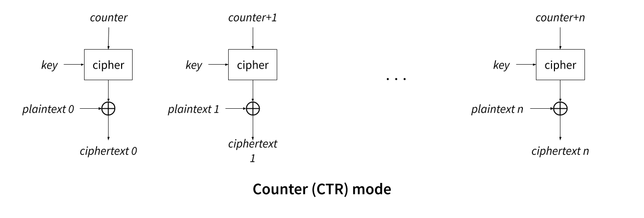
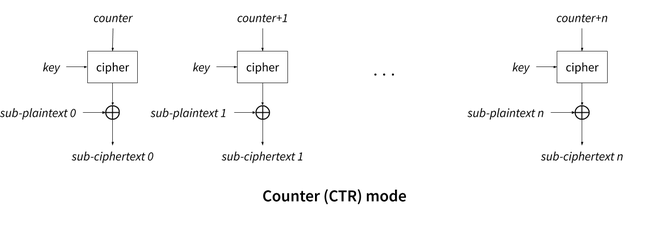
Fix bitslicing post

diff --git a/_posts/2020-01-14-bitslicing.md b/_posts/2020-01-14-bitslicing.md
@@ -59,8 +59,10 @@ doing a `xor` between the first and third register above computes 4
 The general idea of bitslicing is thus to transpose _m_ _n_-bit data
 into _n_ _m_-bit registers (or variables). Then, standard _m_-bit
 bitwise operations of the CPU can be used and each acts as _m_
-parallel operation, allowing a cipher to effectively run _m_ times in
-parallel.
+parallel operation. Therefore, if a cipher can be expressed as a
+combination of bitwise operations, it can be ran _m_ times in parallel
+using bitslicing. A bitsliced program can thus be seen as a parallel
+circuit implemented in software.
 
 
 In the following, we present various aspects of bitslicing: how to
@@ -82,13 +84,13 @@ Scaling:
 -->
 ### Scaling
 
-Modern high-end CPUs come with vector extensions, also called _SIMD_
-for Single Instruction Multiple Data. The idea of SIMD is to do the
-same operation on multiple data with a single instruction, thus
-increasing throughput using data parallelism rather than
-concurrency. SIMD instructions are made available to C developpers
-thanks to functions called _intrinsics_. For instance, the C
-intrinsics `_mm_add_pi8` generates a `paddb` assembly instruction,
+Modern high-end CPUs come with vector instruction sets, also called
+_SIMD_ (Single Instruction Multiple Data) extensions. The idea of SIMD
+is to do the same operation on multiple data with a single
+instruction, thus increasing throughput using data parallelism rather
+than concurrency. SIMD instructions are made available to C
+developpers thanks to functions called _intrinsics_. For instance, the
+C intrinsics `_mm_add_pi8` generates a `paddb` assembly instruction,
 which takes 2 64-bit MMX registers, and does 8 8-bit additions on
 those registers:
 
@@ -102,12 +104,13 @@ AltiVec on PowerPC, 128-bit Neon on ARM, 64-bit MMX, 128-bit SSE,
 256-bit AVX and 512-bit AVX-512 on Intel. While the initial goal of
 SIMD is to speed up standard computations by providing parallel
 arithmetic operations, we can use the bitwise operations and large
-registers they provide to speed up bitslicing. Executing a bitslice
-program on 512-bit registers will compute the same circuit on 512
-independent data in parallel, thus readucing 8 times the cost per data
-compared to 64-bit registers. Parallelizing direct (_i.e._ not
-bitsliced) code in the same fashion using SIMD instructions is not
-always possible: a lookup table cannot be parallelized for instance.
+registers they provide to speed up bitsliced
+implementations. Executing a bitsliced program on 512-bit registers
+will compute the same circuit on 512 independent data in parallel,
+thus reducing 8 times the cost per data compared to 64-bit
+registers. Parallelizing direct (_i.e._ not bitsliced) code in the
+same fashion using SIMD instructions is not always possible: a lookup
+table cannot be parallelized for instance.
 
 The overall time needed to execute the circuit, and thus the latency,
 on the other hand remains constant no matter the registers used:
@@ -117,10 +120,8 @@ amount of time.
 
 Finally, to make full use of SIMD extensions, hundreds of inputs must
 be available to be encrypted in parallel. For instance, on AES, which
-encrypts a 128-bit plaintext, in order to fill up 512-bit AVX-512
-registers, 8 KB of data are required. And even if such amount of data
-are available, bitslicing might not always work because some modes of
-operations cannot be used, as shown below.
+encrypts a 128-bit plaintext, in order to fill 512-bit AVX-512
+registers, 8 KB of data are required. 
 
 
 <!--
@@ -136,23 +137,24 @@ Mode of operation
 
 ### Modes of operation
 
-A blockcipher can only encrypts a fixed amount of data, called a
-block, of typically somewhere between 64 and 128 bits (for instance,
-64 for DES, 80 for Rectangle, 128 for AES). When the plaintext is
-longer than the block size, the cipher must be repeatedly called until
-the whole plaintext is encrypted, using an algorithm called a _mode of
-operation_. The simplest mode of operation is Electronic Codebook
-(ECB), and consists in dividing the plaintext into blocks, and
-encrypting them separately:
+A blockcipher can only encrypt a fixed amount of data, called a block,
+using between 64 and 128 bits (for instance, 64 for DES, 80 for
+Rectangle, 128 for AES). When the plaintext is longer than the block
+size, the cipher must be repeatedly called until the whole plaintext
+is encrypted, using an algorithm called a _mode of operation_. The
+simplest mode of operation is Electronic Codebook (ECB), and consists
+in dividing the plaintext into sub-plaintexts (of the size of a
+block), encrypting them separately, and concatenating the resulting
+sub-ciphertext to produce the full ciphertext:
 
 <p align="center">
 <img src="{{ site.baseurl }}/assets/images/blog/ECB-small.png">
 </p>
 
-This mode of operation is not very secure because it lacks diffusion:
-two identical blocks will be encrypted into the same ciphertext. This
-can be exploited by an attacker to gain knowledge about the plaintext,
-as can be seen from the following example (taken from
+This mode of operation is considered unsecured because identical
+blocks will be encrypted into the same ciphertext. This can be
+exploited by an attacker to gain knowledge about the plaintext, as can
+be seen from the following example (taken from
 [Wikipedia](https://en.wikipedia.org/wiki/Block_cipher_mode_of_operation#ECB-weakness)):
 
 <p align="center">
@@ -161,20 +163,20 @@ as can be seen from the following example (taken from
 
 
 One of the better, and commonly used mode is Cipher Block Chaining
-(CBC), which solves the weakness of ECB by xoring each plaintext with
-the ciphertext produced by the encryption of the previous
-plaintext. This proccessed is bootstraped by xoring the first
-plaintext with an additional secret data called an _initialization
+(CBC), which solves the weakness of ECB by xoring each sub-plaintext
+with the sub-ciphertext produced by the encryption of the previous
+sub-plaintext. This proccessed is bootstraped by xoring the first
+sub-plaintext with an additional secret data called an _initialization
 vector_:
 
 <p align="center">
 <img src="{{ site.baseurl }}/assets/images/blog/CBC-small.png">
 </p>
 
-However, because bitslicing encrypts many plaintexts in parallel, it
-prevents the use of CBC, as well as any other mode that would rely on
-using a ciphertext as an input for encrypting the next plaintext (like
-Cipher Feedback (CFB) and Output Feedback (OFB)).
+However, because bitslicing encrypts many sub-plaintexts in parallel,
+it prevents the use of CBC, as well as any other mode that would rely
+on using a sub-ciphertext as an input for encrypting the next
+sub-plaintext (like Cipher Feedback (CFB) and Output Feedback (OFB)).
 
 While this reduces the use cases for bitslicing, there are still two
 ways of overcoming those issues:
@@ -188,9 +190,9 @@ ways of overcoming those issues:
    practice. Furthermore, this may incur a slight management overhead.
    
  - A parallel mode could be used instead, like Counter mode (CTR). CTR
-   works by encrypting a counter rather than the plaintext directly,
-   and then xoring the encrypted counter with the plaintext, as shown
-   below:
+   works by encrypting a counter rather than the sub-plaintexts
+   directly, and then xoring the encrypted counter with the
+   sub-plaintext, as shown below:
    
    <p align="center">
    <img src="{{ site.baseurl }}/assets/images/blog/CTR-small.png">
